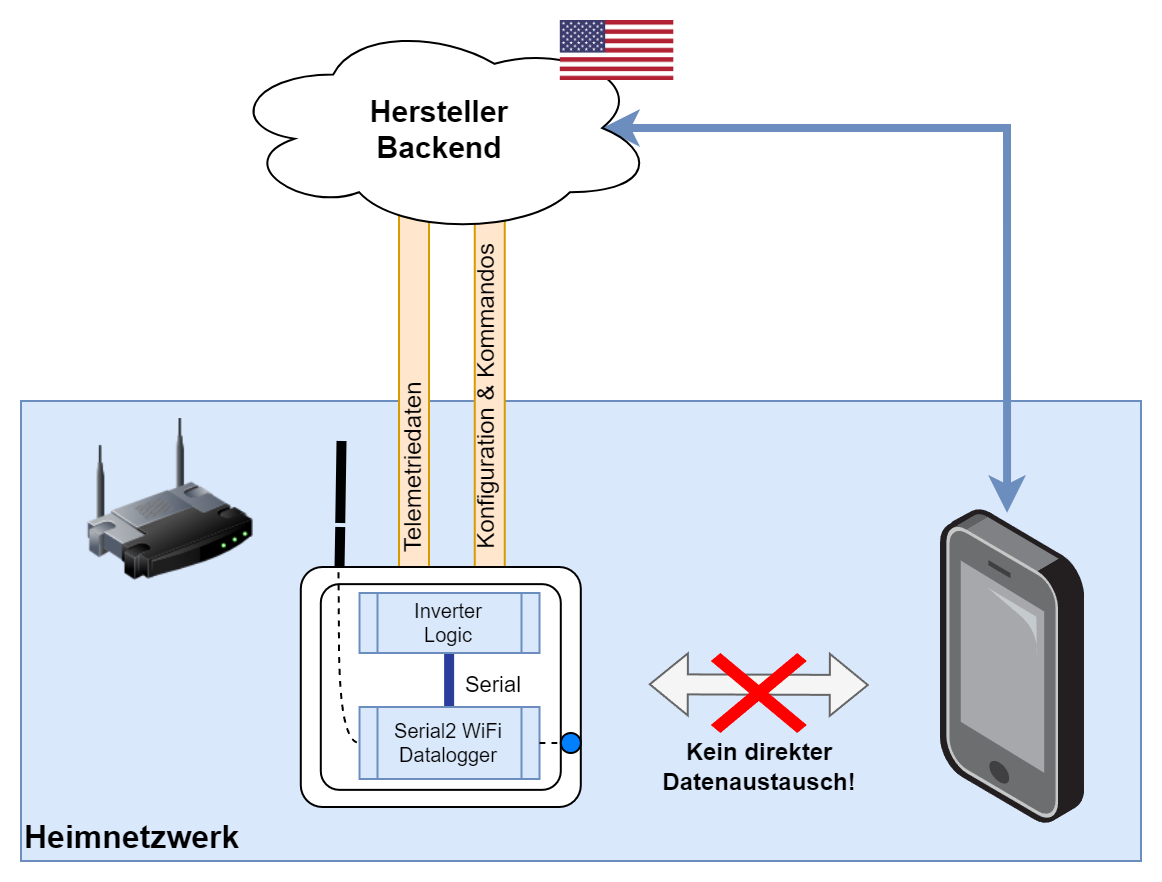
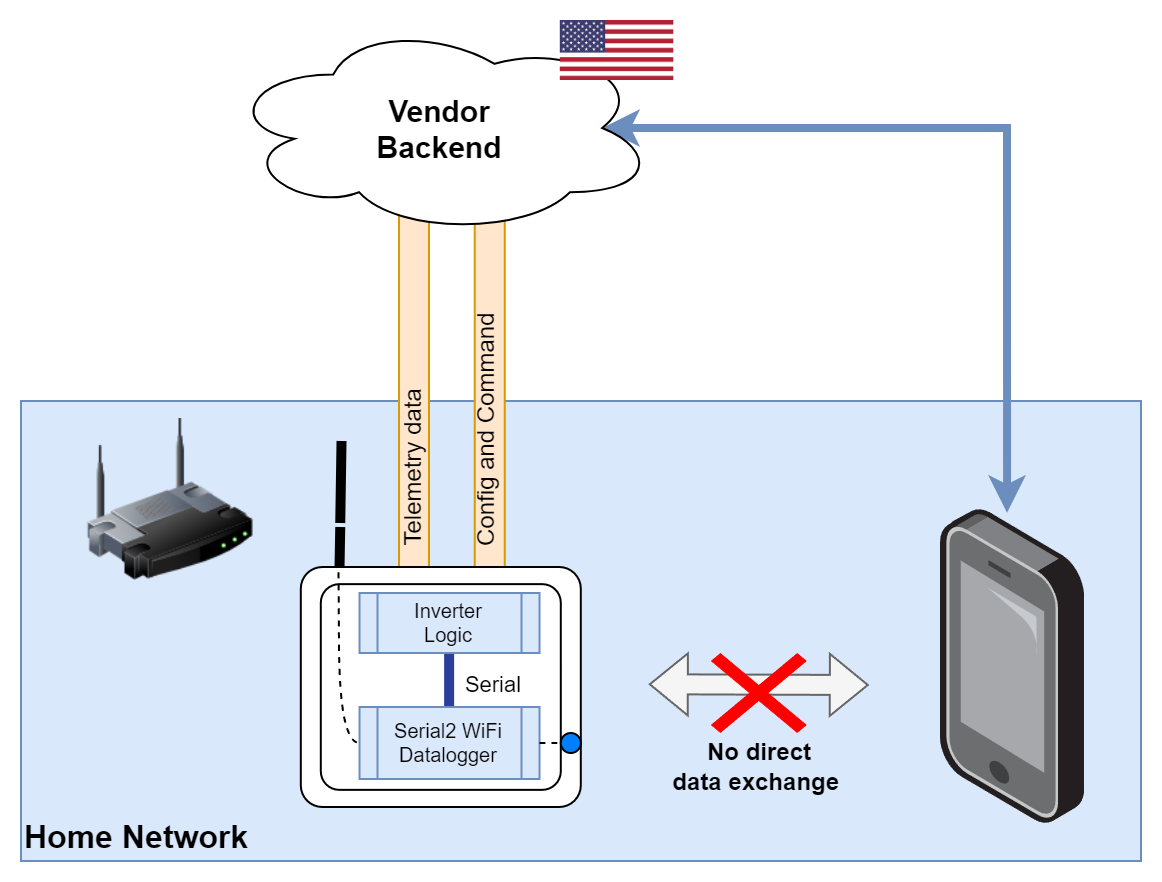
Changed Language

diff --git a/README.md b/README.md
@@ -1,8 +1,7 @@
 # S|P|I|D|R Project📡
 
-<img src="./doc/img/SPIDR_Animation_HELTEC32.gif" alt="S|P|I|D|R Animation showing the basic features on a Heltec WiFi Kit32 V3" width="300" height="200"/>
+<img src="./doc/img/SPIDR_Animation_HELTEC32.gif" alt="S|P|I|D|R Animation showing the basic features on a Heltec WiFi Kit32 V3" width="400"/>
 
-![ESP Animation](./doc/img/SPIDR_Animation_HELTEC32.gif)
 
 
 ## Project Overview 🌟
@@ -11,13 +10,15 @@ The S|P|I|D|R Project project aims to provide a simple and effective solution fo
 
 This readme will guide you through the hardware and software requirements, as well as the steps to get started with this project.
 
-![ESP Architecture](./doc/img/SPIDR_Architecture.drawio.png)
+<img src="./doc/img/SPIDR_Architecture.drawio.png" alt="S|P|I|D|R Architecture" width="500"/>
+
 
 ### Motivation 🌍
 
 The Deye solar inverters are known to communicate with the Solarman Cloud, which utilizes servers located in the US and China (also Europe since 2024). However, for individuals and organizations in Europe 🇪🇺, there is a growing concern about data privacy and legal restrictions associated with transferring data outside of the European Union (EU). This project, "S|P|I|D|R," has been developed to address these concerns and provide a solution for users in Europe.
 
-![Previous Architecture](./doc/img/Connectivity_Standard.png)
+<img src="./doc/img/Connectivity_Standard.png" alt="Standard Communication Pattern" width="400"/>
+
 
 
 
@@ -37,7 +38,7 @@ The general workflow of the "deye-esp-solar-bridge" project is designed to give 
 
 With this solution, the reliance on cloud-based connections to the Solarman Cloud is no longer needed, thereby safeguarding data privacy and adhering to EU regulations. 
 
-![Program Flow](./doc/img/SPIDR_ProgrammFlow.drawio.png)
+<img src="./doc/img/SPIDR_ProgrammFlow.drawio.png" alt="SPIDR Programm Flow Chart" width="500"/>
 
 
 ## Key Features
@@ -78,9 +79,10 @@ The project currently supports both ESP8266 and ESP32 boards, specifically using
 - **Heltec ESP8266 NodeMCU** (128x32)
 - **Heltec Wifi Kit 32 v3 ESP32** (128x64)
 
-![Hardware Boards Top](./doc/img/HW_BoardsTop.jpg)
+<img src="./doc/img/HW_BoardsTop.jpg" alt="SPIDR - Supported and tested boards" width="400"/>
 
-![Hardware Boards Bottom](./doc/img/OLED_Examples.jpg)
+<img src="./doc/img/OLED_Examples.jpg" alt="SPIDR - Different Display Types" width="400"/>
+
 
 
 ### Software Requirements 💻
